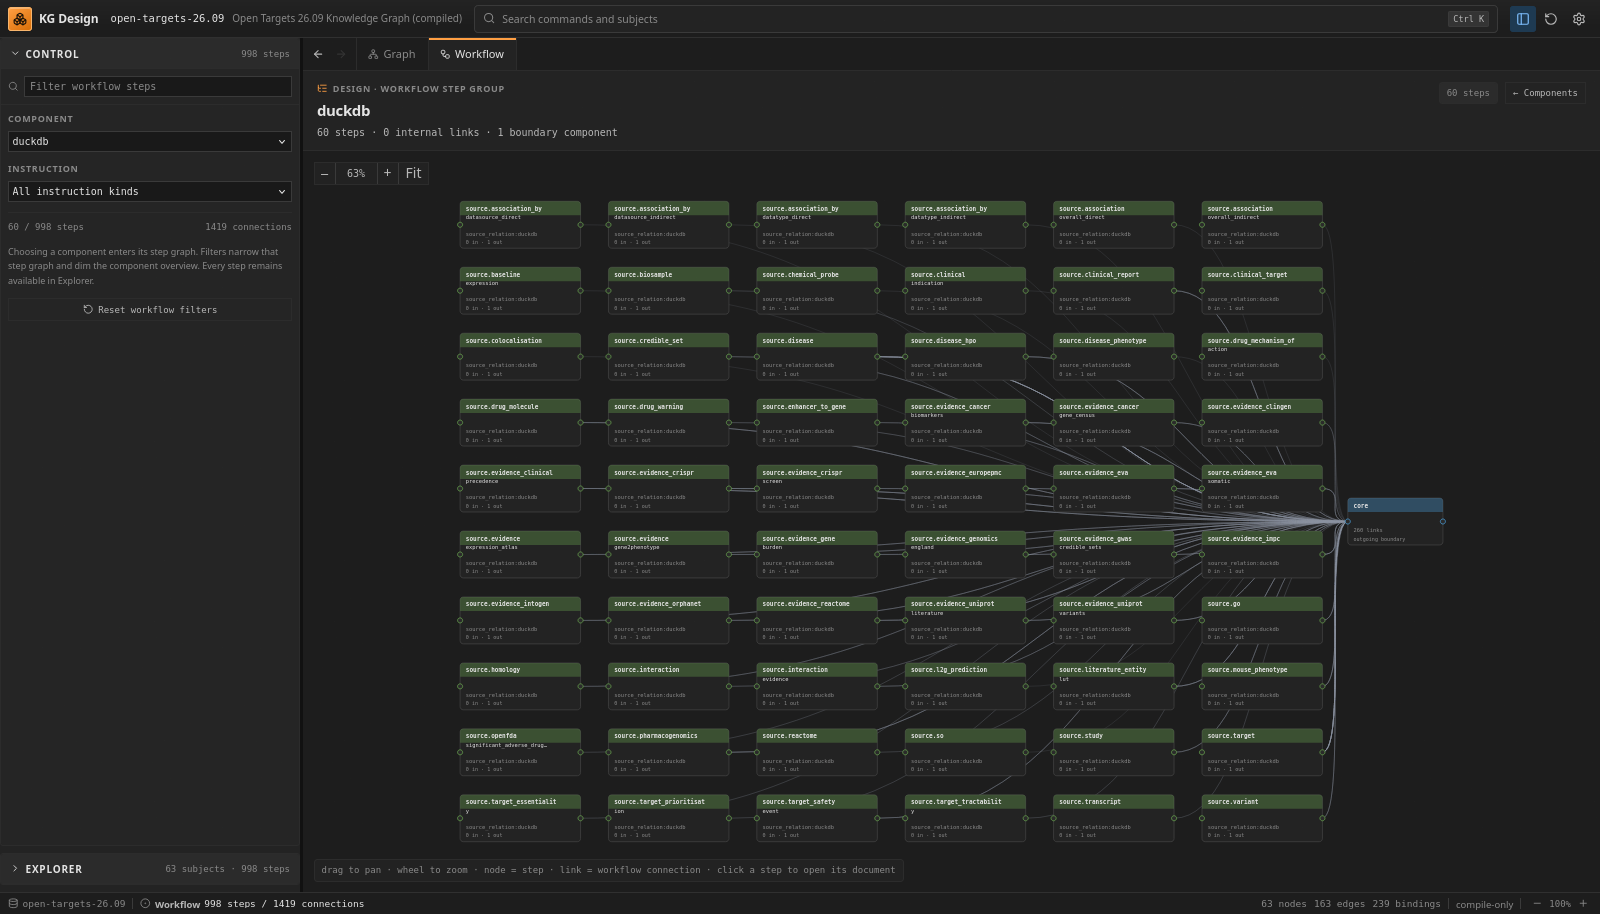
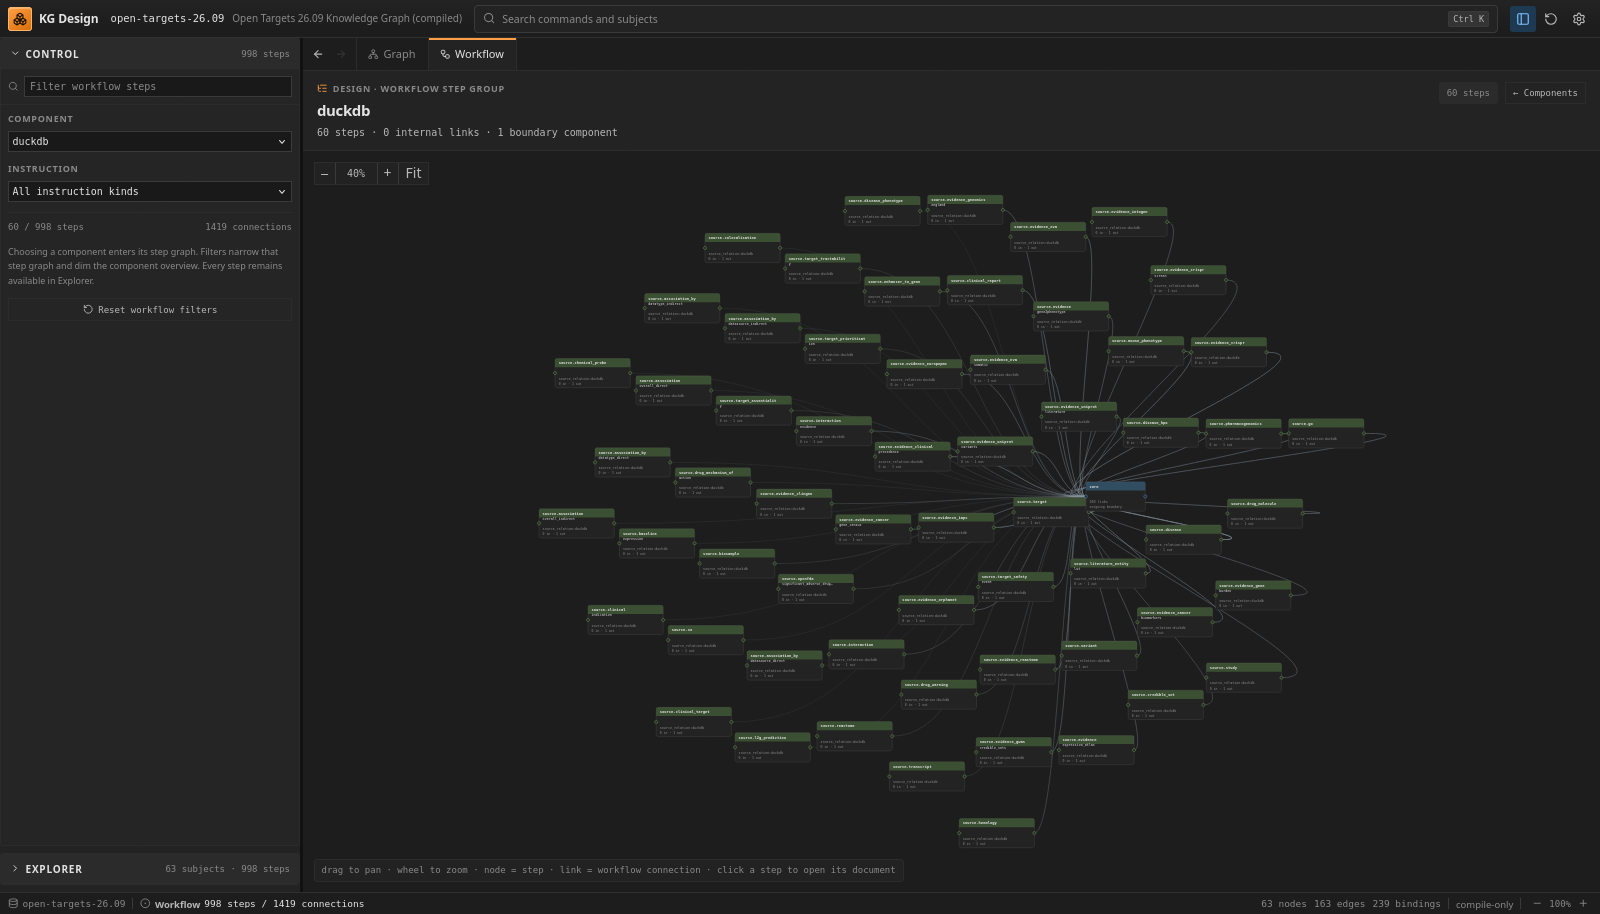
Lay out step groups as an unfolded freeform flow

Changed region(s): [[0.2812, 0.2144, 0.9062, 0.919]]

diff --git a/viewer/workflow/view/WorkflowFeature.tsx b/viewer/workflow/view/WorkflowFeature.tsx
@@ -9,6 +9,7 @@ import {
   type PointerEvent as ReactPointerEvent,
   type ReactNode,
 } from "react";
+import * as d3 from "d3";
 import {
   ArrowDownLeft,
   ArrowUpRight,
@@ -637,9 +638,7 @@ function buildCompositorLayout(
 const STEP_NODE_WIDTH = 190;
 const STEP_NODE_HEIGHT = 74;
 const STEP_HEADER_HEIGHT = 22;
-const STEP_GAP_X = 44;
-const STEP_GAP_Y = 30;
-const STEP_MARGIN = 32;
+const STEP_MARGIN = 36;
 const BOUNDARY_WIDTH = 150;
 const BOUNDARY_HEIGHT = 74;
 
@@ -683,7 +682,6 @@ function buildStepGraphLayout(
 ): StepGraphLayout {
   const visible = new Map(rows.map((row) => [row.key, row]));
   const internal: Array<{ id: string; sourceKey: string; targetKey: string }> = [];
-  const edges: StepGraphEdge[] = [];
   const incoming = new Map<string, number>();
   const outgoing = new Map<string, number>();
 
@@ -708,41 +706,20 @@ function buildStepGraphLayout(
   }
 
   const count = rows.length;
-  const columns = Math.max(
-    3,
-    Math.min(8, Math.round(Math.sqrt(Math.max(count, 1) / 1.6))),
-  );
-  const rowCount = Math.max(1, Math.ceil(count / columns));
-  const gridWidth =
-    columns * STEP_NODE_WIDTH + Math.max(0, columns - 1) * STEP_GAP_X;
-  const gridHeight =
-    rowCount * STEP_NODE_HEIGHT + Math.max(0, rowCount - 1) * STEP_GAP_Y;
   const leftEntries = [...incoming.entries()].sort(([a], [b]) => a.localeCompare(b));
   const rightEntries = [...outgoing.entries()].sort(([a], [b]) => a.localeCompare(b));
-  const leftWidth = leftEntries.length ? BOUNDARY_WIDTH : 0;
-  const rightWidth = rightEntries.length ? BOUNDARY_WIDTH : 0;
-  const gridX = STEP_MARGIN + (leftEntries.length ? leftWidth + 40 : 0);
-  const gridY = STEP_MARGIN;
-  const rightX = gridX + gridWidth + (rightEntries.length ? 40 : 0);
-  const leftStackHeight =
-    leftEntries.length * BOUNDARY_HEIGHT +
-    Math.max(0, leftEntries.length - 1) * 22;
-  const rightStackHeight =
-    rightEntries.length * BOUNDARY_HEIGHT +
-    Math.max(0, rightEntries.length - 1) * 22;
-  const canvasHeight =
-    STEP_MARGIN * 2 + Math.max(gridHeight, leftStackHeight, rightStackHeight);
-  const canvasWidth =
-    gridX +
-    gridWidth +
-    (rightEntries.length ? 40 + rightWidth : 0) +
-    STEP_MARGIN;
+  const estimatedSide = Math.max(680, Math.sqrt(Math.max(count, 1)) * 118);
+  const estimatedWidth = Math.max(1000, estimatedSide * 1.4);
+  const estimatedHeight = Math.max(640, estimatedSide * 0.95);
+  const centerX = estimatedWidth / 2;
+  const centerY = estimatedHeight / 2;
 
   const nodes: StepGraphNode[] = [];
   const nodeByKey = new Map<string, StepGraphNode>();
+
   rows.forEach((row, index) => {
-    const column = index % columns;
-    const line = Math.floor(index / columns);
+    const angle = index * 2.399963229728653;
+    const distance = 28 * Math.sqrt(index + 1);
     const node: StepGraphNode = {
       key: row.key,
       kind: "step",
@@ -751,8 +728,8 @@ function buildStepGraphLayout(
       row,
       component,
       tint: tintFor(component),
-      x: gridX + column * (STEP_NODE_WIDTH + STEP_GAP_X),
-      y: gridY + line * (STEP_NODE_HEIGHT + STEP_GAP_Y),
+      x: centerX + Math.cos(angle) * distance,
+      y: centerY + Math.sin(angle) * distance,
       width: STEP_NODE_WIDTH,
       height: STEP_NODE_HEIGHT,
     };
@@ -760,8 +737,11 @@ function buildStepGraphLayout(
     nodeByKey.set(node.key, node);
   });
 
+  const leftStackHeight =
+    leftEntries.length * BOUNDARY_HEIGHT +
+    Math.max(0, leftEntries.length - 1) * 22;
   const leftStartY =
-    STEP_MARGIN + Math.max(0, (gridHeight - leftStackHeight) / 2);
+    STEP_MARGIN + Math.max(0, (estimatedHeight - leftStackHeight) / 2);
   leftEntries.forEach(([source, links], index) => {
     const node: StepGraphNode = {
       key: `boundary:in:${source}`,
@@ -779,8 +759,11 @@ function buildStepGraphLayout(
     nodeByKey.set(node.key, node);
   });
 
+  const rightStackHeight =
+    rightEntries.length * BOUNDARY_HEIGHT +
+    Math.max(0, rightEntries.length - 1) * 22;
   const rightStartY =
-    STEP_MARGIN + Math.max(0, (gridHeight - rightStackHeight) / 2);
+    STEP_MARGIN + Math.max(0, (estimatedHeight - rightStackHeight) / 2);
   rightEntries.forEach(([target, links], index) => {
     const node: StepGraphNode = {
       key: `boundary:out:${target}`,
@@ -789,7 +772,7 @@ function buildStepGraphLayout(
       detail: `${links} link${links === 1 ? "" : "s"}`,
       component: target,
       tint: tintFor(target),
-      x: rightX,
+      x: estimatedWidth - BOUNDARY_WIDTH - STEP_MARGIN,
       y: rightStartY + index * (BOUNDARY_HEIGHT + 22),
       width: BOUNDARY_WIDTH,
       height: BOUNDARY_HEIGHT,
@@ -798,27 +781,12 @@ function buildStepGraphLayout(
     nodeByKey.set(node.key, node);
   });
 
-  const pushEdge = (sourceKey: string, targetKey: string, id: string, boundary: boolean) => {
-    const source = nodeByKey.get(sourceKey);
-    const target = nodeByKey.get(targetKey);
-    if (!source || !target) return;
-    const sx = source.x + source.width;
-    const sy = source.y + source.height / 2;
-    const tx = target.x;
-    const ty = target.y + target.height / 2;
-    const dx = Math.max(42, Math.abs(tx - sx) * 0.5);
-    edges.push({
-      id,
-      sourceKey,
-      targetKey,
-      boundary,
-      path: `M ${sx} ${sy} C ${sx + dx} ${sy}, ${tx - dx} ${ty}, ${tx} ${ty}`,
-    });
-  };
-
-  for (const edge of internal) {
-    pushEdge(edge.sourceKey, edge.targetKey, edge.id, false);
-  }
+  const edgeDefs: Array<{
+    id: string;
+    sourceKey: string;
+    targetKey: string;
+    boundary: boolean;
+  }> = internal.map((edge) => ({ ...edge, boundary: false }));
   for (const connection of index.connections) {
     const sourceKey = stepKey(connection.outputStepId);
     const targetKey = stepKey(connection.inputStepId);
@@ -826,20 +794,117 @@ function buildStepGraphLayout(
     const targetIn = visible.has(targetKey);
     if (sourceIn && targetIn) continue;
     if (sourceIn && connection.inputStepId[0] !== component) {
-      pushEdge(
+      edgeDefs.push({
+        id: `boundary:${connection.id}`,
         sourceKey,
-        `boundary:out:${connection.inputStepId[0]}`,
-        `boundary:${connection.id}`,
-        true,
-      );
+        targetKey: `boundary:out:${connection.inputStepId[0]}`,
+        boundary: true,
+      });
     } else if (targetIn && connection.outputStepId[0] !== component) {
-      pushEdge(
-        `boundary:in:${connection.outputStepId[0]}`,
+      edgeDefs.push({
+        id: `boundary:${connection.id}`,
+        sourceKey: `boundary:in:${connection.outputStepId[0]}`,
         targetKey,
-        `boundary:${connection.id}`,
-        true,
-      );
+        boundary: true,
+      });
     }
+  }
+
+  interface ForceNode extends d3.SimulationNodeDatum {
+    key: string;
+    width: number;
+    height: number;
+    boundary: boolean;
+  }
+  interface ForceLink extends d3.SimulationLinkDatum<ForceNode> {
+    boundary: boolean;
+  }
+
+  const forceNodes: ForceNode[] = nodes.map((node) => ({
+    key: node.key,
+    width: node.width,
+    height: node.height,
+    boundary: node.kind !== "step",
+    x: node.x,
+    y: node.y,
+    fx: node.kind === "step" ? null : node.x,
+    fy: node.kind === "step" ? null : node.y,
+  }));
+  const forceByKey = new Map(forceNodes.map((node) => [node.key, node]));
+  const forceLinks: ForceLink[] = edgeDefs
+    .filter(
+      (edge) => forceByKey.has(edge.sourceKey) && forceByKey.has(edge.targetKey),
+    )
+    .map((edge) => ({
+      source: edge.sourceKey,
+      target: edge.targetKey,
+      boundary: edge.boundary,
+    }));
+
+  const simulation = d3
+    .forceSimulation<ForceNode>(forceNodes)
+    .force(
+      "link",
+      d3
+        .forceLink<ForceNode, ForceLink>(forceLinks)
+        .id((node) => node.key)
+        .distance((link) => (link.boundary ? 118 : 108))
+        .strength((link) => (link.boundary ? 0.12 : 0.36)),
+    )
+    .force("charge", d3.forceManyBody<ForceNode>().strength(-65))
+    .force("center", d3.forceCenter<ForceNode>(centerX, centerY))
+    .force(
+      "collide",
+      d3
+        .forceCollide<ForceNode>()
+        .radius((node) => Math.max(node.width, node.height) * 0.55),
+    )
+    .force("x", d3.forceX<ForceNode>(centerX).strength(0.08))
+    .force("y", d3.forceY<ForceNode>(centerY).strength(0.08))
+    .alphaDecay(0.055)
+    .velocityDecay(0.4)
+    .randomSource(d3.randomLcg(0.42));
+  simulation.stop();
+  const ticks = count > 220 ? 90 : count > 100 ? 140 : 200;
+  for (let tick = 0; tick < ticks; tick += 1) simulation.tick();
+  simulation.alpha(0).stop();
+
+  let minX = Infinity;
+  let minY = Infinity;
+  let maxX = -Infinity;
+  let maxY = -Infinity;
+  for (const node of forceNodes) {
+    const x = node.x ?? 0;
+    const y = node.y ?? 0;
+    minX = Math.min(minX, x);
+    minY = Math.min(minY, y);
+    maxX = Math.max(maxX, x + node.width);
+    maxY = Math.max(maxY, y + node.height);
+  }
+  const offsetX = STEP_MARGIN - minX;
+  const offsetY = STEP_MARGIN - minY;
+  for (const node of nodes) {
+    const position = forceByKey.get(node.key);
+    node.x = (position?.x ?? 0) + offsetX;
+    node.y = (position?.y ?? 0) + offsetY;
+  }
+  const canvasWidth = maxX - minX + STEP_MARGIN * 2;
+  const canvasHeight = maxY - minY + STEP_MARGIN * 2;
+
+  const edges: StepGraphEdge[] = [];
+  for (const edge of edgeDefs) {
+    const source = nodeByKey.get(edge.sourceKey);
+    const target = nodeByKey.get(edge.targetKey);
+    if (!source || !target) continue;
+    const sx = source.x + source.width;
+    const sy = source.y + source.height / 2;
+    const tx = target.x;
+    const ty = target.y + target.height / 2;
+    const dx = Math.max(54, Math.abs(tx - sx) * 0.5);
+    edges.push({
+      ...edge,
+      path: `M ${sx} ${sy} C ${sx + dx} ${sy}, ${tx - dx} ${ty}, ${tx} ${ty}`,
+    });
   }
 
   return {
